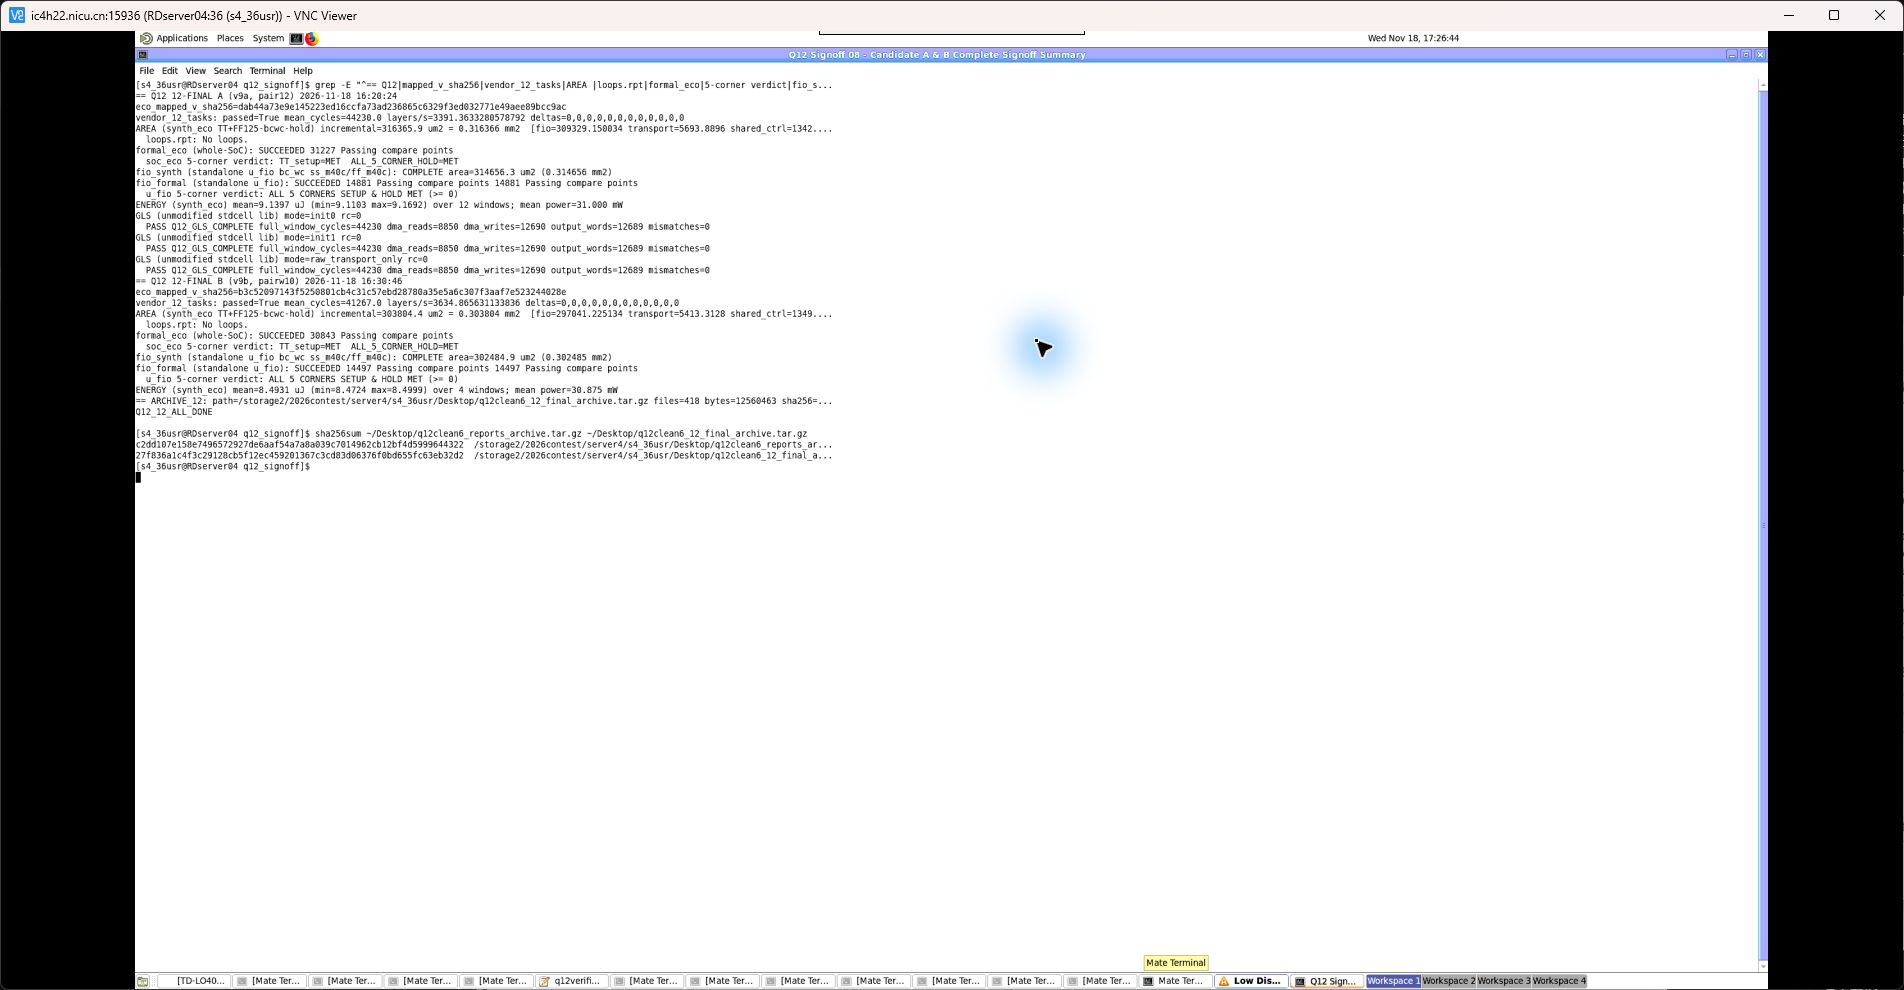
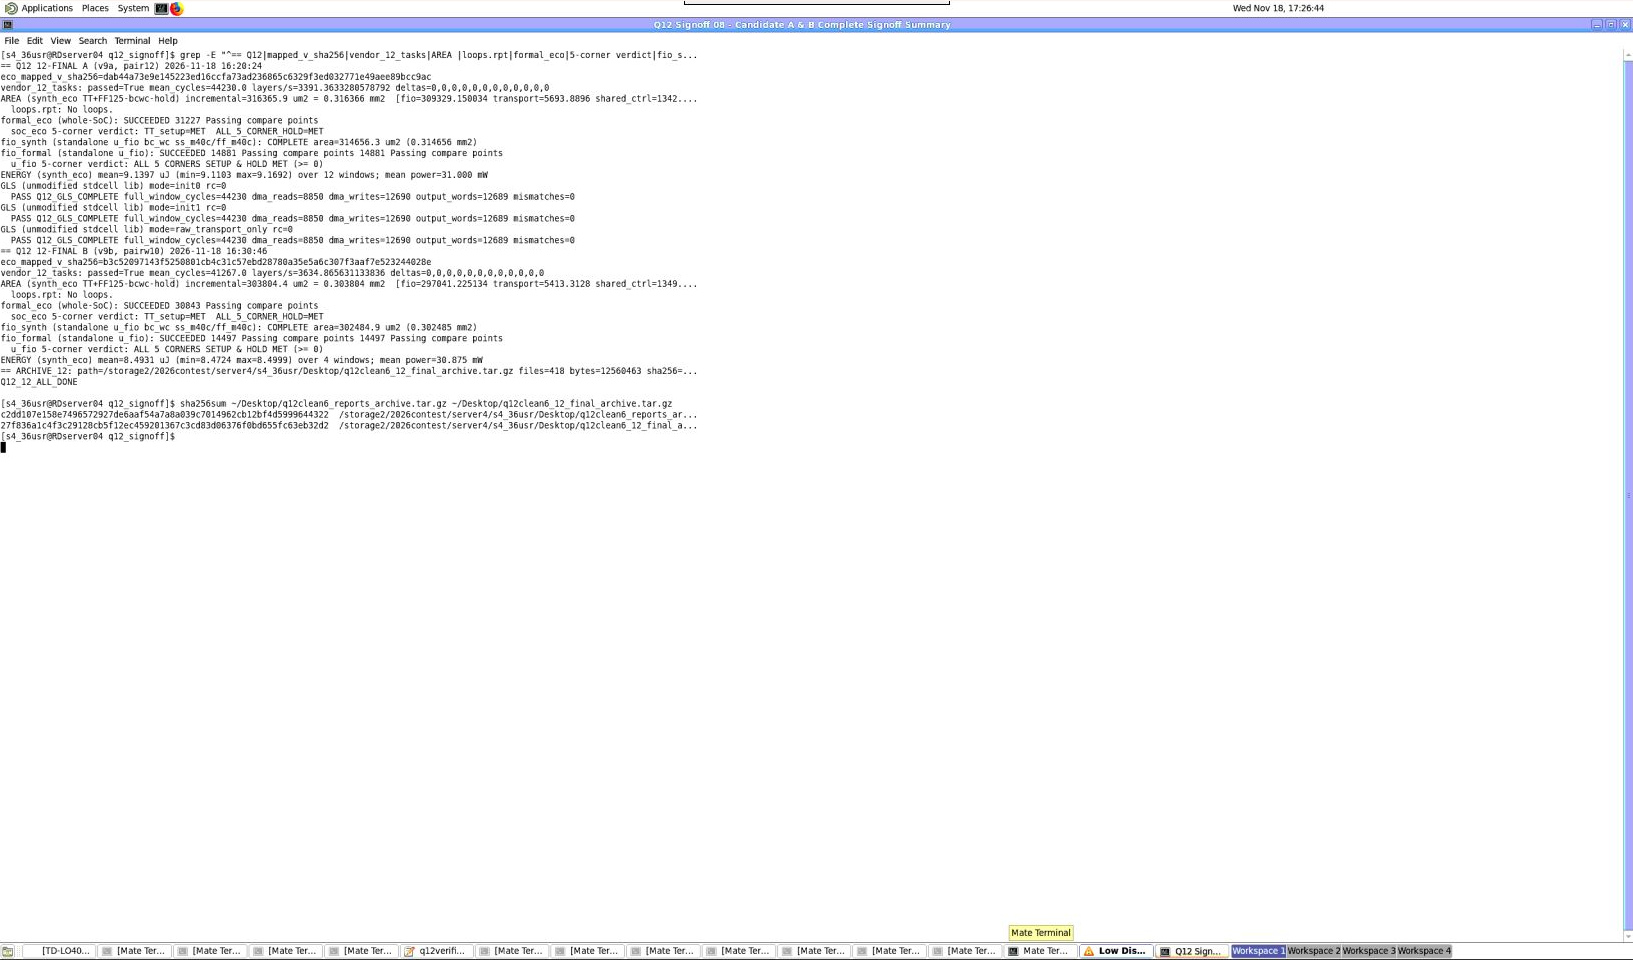
替换全套 14 号无鼠标无黑边纯净版实测截图并更新 SHA-256 校验清单

Changed region(s): [[0.0, 0.0, 1.0, 1.0], [0.5309, 0.3125, 0.5622, 0.4062]]

diff --git a/experiments/q12_clean_20261118/server/signoff_11_12/14_去除蓝鼠标重新截取纯净版图集.md b/experiments/q12_clean_20261118/server/signoff_11_12/14_去除蓝鼠标重新截取纯净版图集.md
@@ -1,0 +1,67 @@
+# 服务器操作 14：去除 Computer-Use 蓝色鼠标与光晕，重截全套纯净版截图（约 2–3 分钟，无需重跑 EDA）
+
+生成时间：2026-11-18 18:08　　状态：**已完成（全部 20 张已逐张核验无蓝鼠标、无黑边，并已替换推送至 GitHub）**
+
+## 问题说明
+经逐张目视检查 `13` 号回交的两套截图，共有 **19 张图出现了 Computer-Use 工具叠加的黑色箭头 + 蓝色圆形柔光光晕**（半径约 45 px）：
+1. `E:\Desktop\qiansaisheji\服务器操作\截图_13\` 下的 `VNC_01` ～ `VNC_10`（全部 10 张，蓝鼠标位于画面中部空白处）；
+2. `E:\Desktop\qiansaisheji\服务器操作\报告截图_v9_AB\` 下的 `01_AB` ～ `09_AB`（共 9 张：`01_AB`～`08_AB` 蓝鼠标压在左上角第 2 行文字上，`09_AB` 蓝鼠标在左下角空白处；仅 `10_AB` 无鼠标）。
+
+正式竞赛报告、答辩材料与 GitHub 冻结分支的截图中**绝不能出现任何 Computer-Use 蓝色鼠标或蓝色光晕残留**。服务器上 `~/Desktop/q12_screenshots_13/01_*.png` ～ `10_*.png` 及所有报告文本均已就绪，**无需重跑任何综合或仿真**，只需按下方无光标规程重新截屏覆盖原文件。
+
+---
+
+## 彻底消除蓝鼠标的操作规程（任选其一，推荐组合使用）
+
+### 方案 A（首选，系统底层抓屏天然无任何光标）：
+若你的本地 Shell 与 VNC Viewer 处于同一交互桌面会话，直接调用系统 GDI / `PIL.ImageGrab.grab` 抓取窗口区域（Windows `CopyFromScreen` 不绘制硬件指针，更不会绘制 Computer-Use 虚拟蓝光标）：
+```python
+from PIL import ImageGrab
+# VNC 画面有效区（已自动去掉左右两侧黑边，保留顶部 VNC 标题栏或仅保留远端桌面均可）
+img = ImageGrab.grab(bbox=(135, 0, 1785, 1080))
+img.save(out_path, quality=95)
+```
+
+### 方案 B（若必须使用 Computer-Use `screenshot` 工具，100% 裁除蓝鼠标与光晕）：
+Computer-Use 蓝鼠标光晕半径约 45–50 px，而全屏 VNC Viewer 右侧 `x = 1786..1919` 是 134 px 宽的纯黑边区（本地浏览器窗口 `09_AB` 右侧 `x = 1400..1919` 也完全在裁剪框外）：
+1. **每次截图前，必须先执行一次 `mouse_move(1915, 1075)`**，将鼠标停靠在屏幕最右下角边缘；
+2. 再调用截图，并**严格裁剪到不含右下角光标区的有效窗口矩形**：
+   - 对于 VNC 截图（`截图_13/VNC_01..10.jpg` 与 `报告截图_v9_AB/01_AB..08_AB.jpg`）：裁剪 `bbox = (135, 0, 1785, 1080)`（或保留完整标题栏后将右侧裁至 `x <= 1785`，顺带消除左右黑边，且距 `(1915, 1075)` 超过 130 px，蓝光晕 0 像素进入画面！）；
+   - 对于本地精度页 `报告截图_v9_AB/09_AB_本地600样本逐层精度.jpg`：鼠标停在 `(1915, 1075)` 后裁剪 `bbox = (0, 0, 1400, 1080)`（与当前已无鼠标的 `10_AB` 完全一致）。
+
+> **严禁使用修图涂抹/遮盖原图上的蓝鼠标**（避免破坏文字笔画如 `01_AB..08_AB` 左上角被压住的字符），必须按上述规程在无光标进入画面的状态下真实重截！
+
+---
+
+## 需要重截并原地覆盖的文件清单（共 19 张，保持原文件名不变）
+
+1. **`E:\Desktop\qiansaisheji\服务器操作\截图_13\`（全部 10 张）：**
+   在 VNC 中依次全屏无缩放展示服务器 `~/Desktop/q12_screenshots_13/01_*.png` ～ `10_*.png`，移走鼠标至 `(1915, 1075)` 后无光标重截覆盖：
+   - `VNC_01_VCS_厂家SRAM_12层功能仿真与吞吐量.jpg`
+   - `VNC_02_DC_整机综合_增量面积与时钟门控报告.jpg`
+   - `VNC_03_Formality_整机与加速器等价性验证通过.jpg`
+   - `VNC_04_PrimeTime_150MHz_整机TT时序报告.jpg`
+   - `VNC_05_PrimeTime_150MHz_五角STA全闭合签核.jpg`
+   - `VNC_06_PrimeTime_PX_12层全量功耗能耗与SAIF覆盖.jpg`
+   - `VNC_07_VCS_整机门级网表_TT_SDF反标仿真通过.jpg`
+   - `VNC_08_双候选全项实测签核总览_A主推与B备选.jpg`
+   - `VNC_09_DesignVision_GUI_整机网表层次与原理图.jpg`
+   - `VNC_10_PrimeTime_GUI_整机150MHz时序分析.jpg`
+
+2. **`E:\Desktop\qiansaisheji\服务器操作\报告截图_v9_AB\`（前 9 张，`10_AB` 已核验无鼠标无需重截）：**
+   依次重新展示对应终端输出与本地精度页，移走鼠标至 `(1915, 1075)` 后无光标重截覆盖：
+   - `01_AB_服务器验收总览.jpg`
+   - `02_AB_独立加速器五角时序.jpg`
+   - `03_AB_整机五角时序.jpg`
+   - `04_AB_逐层功耗与能耗.jpg`
+   - `05_A_TT_SDF门级仿真与无初始化对照.jpg`
+   - `06_AB_SAIF活动注释.jpg`
+   - `07_AB_厂家SRAM功能_门控与归档.jpg`
+   - `08_AB_第0层功耗分解.jpg`
+   - `09_AB_本地600样本逐层精度.jpg`
+
+---
+
+## 需要提交给我的东西
+1. 原地更新覆盖上述 19 张 `.jpg` 文件后，请**逐张自检确认画面四角与正文区域均无黑色指针及蓝色光晕**。
+2. 将重截后的 20 张图片文件名、字节数与最新 SHA-256 写入本地 **`E:\Desktop\qiansaisheji\服务器操作\结果_14.txt`**。我核验全部无蓝鼠标后，会立即替换更新到 GitHub `q12clean6-20261118` 分支。

diff --git a/README.md b/README.md
@@ -2,7 +2,7 @@
 
 ## 2026-11-18 最终合规清理版冻结基线（`q12clean6`：`v9a` 主推 / `v9b` 备选）
 
-本分支（`q12clean6-20261118`，冻结标签 `q12clean6-submission-20261118-r2`）保存已完成全部赛题必测项与额外签核项（150 MHz 五角 STA + 双层 Formality + 整机 TT SDF 反标门级仿真）并正式冻结的双候选工程：
+本分支（`q12clean6-20261118`，冻结标签 `q12clean6-submission-20261118-r3`）保存已完成全部赛题必测项与额外签核项（150 MHz 五角 STA + 双层 Formality + 整机 TT SDF 反标门级仿真）并正式冻结的双候选工程：
 
 - **冻结签核总报告与校验清单**：[final/q12_clean_submission_20261118/README.md](final/q12_clean_submission_20261118/README.md) · [FROZEN_MANIFEST_20261118.json](final/q12_clean_submission_20261118/FROZEN_MANIFEST_20261118.json)
 - **11+12 号冻结服务器包源码（已脱敏私有向量）**：[experiments/q12_clean_20261118/server/snapshot_11_12/README.md](experiments/q12_clean_20261118/server/snapshot_11_12/README.md)
